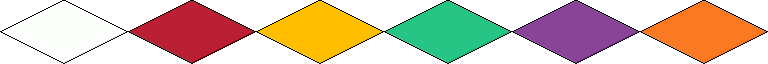
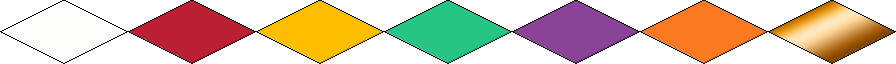
Add lights and winning dance

diff --git a/core/src/com/lps/game/Main.java b/core/src/com/lps/game/Main.java
@@ -63,8 +63,8 @@ public class Main extends ApplicationAdapter {
 		}
 
 
-		rules = new Rule[10];
-		for (int i = 0; i < 10; i++) {
+		rules = new Rule[8];
+		for (int i = 0; i < 8; i++) {
 			rules[i] = new Rule(stage, skin);
 			DragAndDrop.Target[] targets = rules[i].getTargets();
 			for (DragAndDrop.Target t: targets) {
@@ -73,7 +73,7 @@ public class Main extends ApplicationAdapter {
 		}
 
 		for (String color : colors) {
-			addInput(color + "(X,Y)" + "& isIn(X,Y)", LogicBrick.Type.FLUENT, color);
+			addInput(color + "(X,Y)", LogicBrick.Type.FLUENT, color);
 		}
 
 		for (String direction : directions) {
@@ -171,6 +171,11 @@ public class Main extends ApplicationAdapter {
 			if (bob.checkIfWet()) {
 				gameState = GameState.INPUT_HANDLING;
 			}
+
+			if (bob.chekIfWon()) {
+				System.out.println("WIN");
+				//gameState = GameState.INPUT_HANDLING;
+			}
 		}
 
 		//Map
@@ -180,6 +185,11 @@ public class Main extends ApplicationAdapter {
 		batch.begin();
 		bob.draw(batch, deltaTime);
 		batch.draw(foreground, 0, 0);
+
+		for (int i = 0; i < rules.length; ++i) {
+			rules[i].drawLight(batch, i);
+		}
+
 		batch.end();
 
 		// Stage
@@ -191,7 +201,7 @@ public class Main extends ApplicationAdapter {
 
 	private void resetLevel() {
 		gameState = GameState.INPUT_HANDLING;
-		mapManager = new MapManager("maps/tmx/map3.tmx");
+		mapManager = new MapManager("maps/tmx/map2.tmx");
 		bob = new Entity(mapManager, 2, 0);
 
 		StringBuilder inputs = new StringBuilder();

diff --git a/core/src/com/lps/game/Rule.java b/core/src/com/lps/game/Rule.java
@@ -1,10 +1,15 @@
 package com.lps.game;
 
+import com.badlogic.gdx.graphics.Texture;
+import com.badlogic.gdx.graphics.g2d.SpriteBatch;
 import com.badlogic.gdx.scenes.scene2d.Stage;
 import com.badlogic.gdx.scenes.scene2d.ui.Skin;
 import com.badlogic.gdx.scenes.scene2d.utils.DragAndDrop;
 
 public class Rule {
+
+    private static final Texture greenLight = new Texture("lights/green.png");
+    private static final Texture redLight = new Texture("lights/red.png");
     private static int startingY = 1080 - 495;
     private RuleCell[] cells;
 
@@ -29,7 +34,7 @@ public class Rule {
 
     public String getString() {
 
-        StringBuilder sb = new StringBuilder();
+        StringBuilder sb = new StringBuilder("isIn(X,Y)&");
         boolean notEmpty = false;
 
         for (RuleCell c: cells) {
@@ -42,5 +47,9 @@ public class Rule {
         sb.append(".");
 
         return notEmpty ? sb.toString() : "";
+    }
+
+    public void drawLight(SpriteBatch batch, int i) {
+        batch.draw(greenLight, 1450, 27 + (8 - i) * 70);
     }
 }

diff --git a/core/src/com/lps/game/Entity.java b/core/src/com/lps/game/Entity.java
@@ -74,5 +74,17 @@ public class Entity {
         return false;
     }
 
+    public boolean chekIfWon() {
+        String type = map.getType((int)coord.getWorldX(), (int)coord.getWorldY());
+
+        if (type.equals("gold")) {
+            this.isAlive = true;
+            currentState = EntityState.DANCE;
+            return true;
+        }
+
+        return false;
+    }
+
     ;
 }

diff --git a/core/src/com/lps/game/EntityState.java b/core/src/com/lps/game/EntityState.java
@@ -12,7 +12,8 @@ public enum EntityState {
     WALK_DOWN (Textures.BOB_W_DOWN, false, 0, 1),
     WALK_LEFT (Textures.BOB_W_LEFT, false, -1, 0),
     WALK_UP (Textures.BOB_W_UP, false, 0, -1),
-    WET (Textures.BOB_WET, false, 0, 0);
+    WET (Textures.BOB_WET, false, 0, 0),
+    DANCE (Textures.BOB_DANCE , false, 0, 0);
 
     private Animation animation;
     private float dx;

diff --git a/core/src/com/lps/game/Textures.java b/core/src/com/lps/game/Textures.java
@@ -8,7 +8,8 @@ public enum Textures {
     BOB_W_DOWN ("bob/bob_walk_down", 1/24f),
     BOB_W_LEFT ("bob/bob_walk_left", 1/24f),
     BOB_W_UP ("bob/bob_walk_up", 1/24f),
-    BOB_WET ("bob/bob_wet", 1/24f);
+    BOB_WET ("bob/bob_wet", 1/24f),
+    BOB_DANCE ("bob/bob_dance", 1/24f);
 
     private TextureAtlas texture;
     private float speed;
